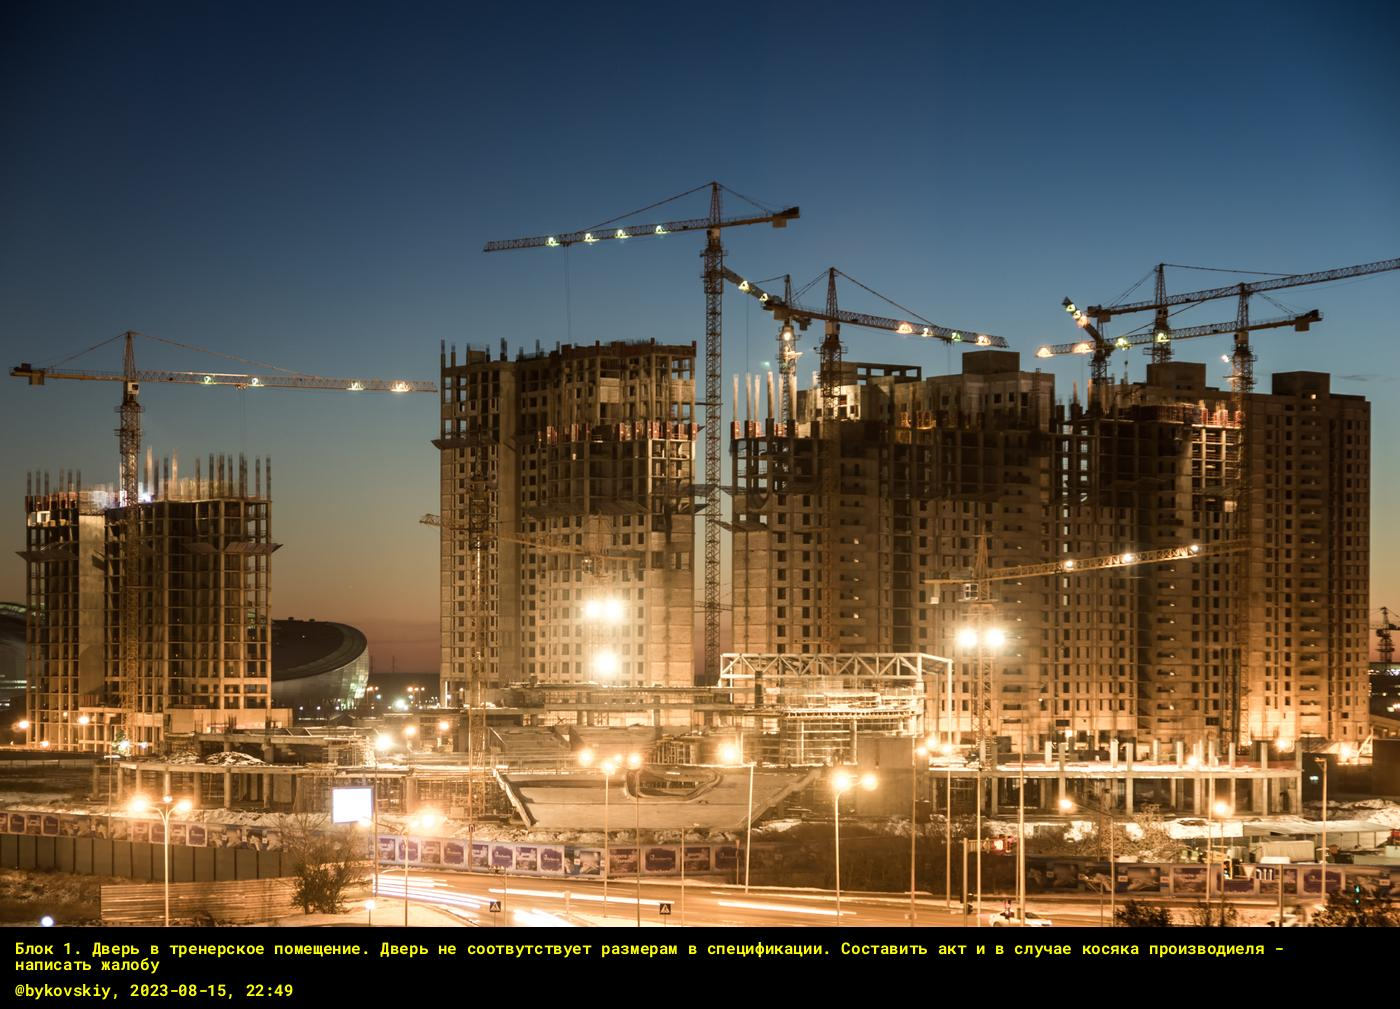
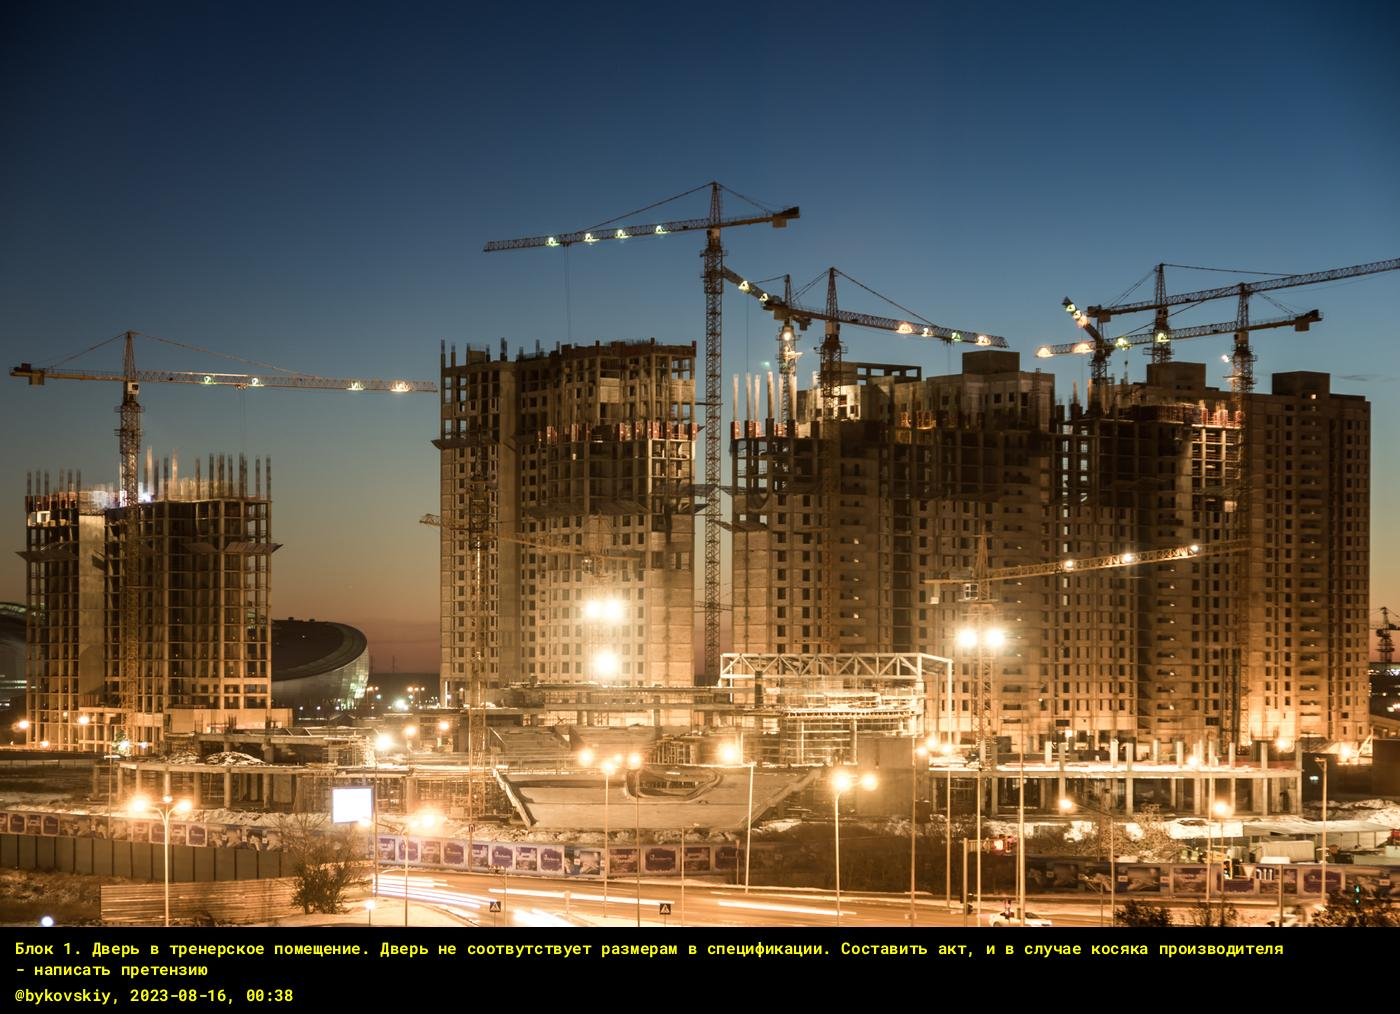
update

diff --git a/main.py b/main.py
@@ -1,24 +1,47 @@
 import textwrap
+import math
 import sys
 
 from datetime import datetime
 from PIL import Image, ImageDraw, ImageFont
 
+font_chars = 'АаБбВвГгДдЕеЁёЖжЗзИиЙйКкЛлМмНнОоПпСсТтУуФфХхЦцЧчШшЩщЪъЫыЬьЭэЮюЯяabcdefghijklmnopqrstuvwxyzABCDEFGHIJKLMNOPQRSTUVWXYZ'
+
+def get_text_wrapper(font, image, text):
+    avg_chat_width = sum(font.getbbox(char)[2] for char in font_chars) / len(font_chars)
+    max_char_count = int((image.size[0] * .95) / avg_chat_width )
+    text = textwrap.fill(text=text, width=max_char_count)
     
+    return text, max_char_count
+
 def add_message(image, text, font, text_color, text_start_height, fontsize, spacing, padding_left):
     draw_img = ImageDraw.Draw(image)
     y_text = text_start_height
-    lines = textwrap.wrap(text, width=image.width // 10)
     
-    for line in lines:
-        draw_img.text((padding_left, y_text), 
-                  line, font=font, fill=text_color)
-        y_text += fontsize*spacing
+    # text = textwrap.fill(text=text, width=60)
+    # print(text)
+    #
+    #
+    # avg_chat_width = sum(font.getbbox(char)[2] for char in font_chars) / len(font_chars)
+    # max_char_count = int((image.size[0] * .95) / avg_chat_width )
+    # text = textwrap.fill(text=text, width=max_char_count)
+    text, max_char_count = get_text_wrapper(font, image, text)
+    draw_img.text((padding_left, y_text), text, font=font, fill=text_color, align='left')
+    
+    # lines = textwrap.wrap(text, width=image.width // 10)
+    
+    # for line in lines:
+    #     draw_img.text((padding_left, y_text), 
+    #               line, font=font, fill=text_color)
+    #     y_text += fontsize*spacing
         
-    return y_text
+    #return y_text
+    print(fontsize*spacing*math.ceil((len(text) / max_char_count)))
+    return y_text + fontsize*spacing * math.ceil((len(text) / max_char_count))
+    
 
 def make_wrapper(fontsize, text, image, spacing, padding_bottom):
-    sender_mark_space = 40 + padding_bottom
+    sender_mark_space = 45 + padding_bottom
     
     lines = textwrap.wrap(text, width=image.width // 10)
     
@@ -32,22 +55,39 @@ def make_wrapper(fontsize, text, image, spacing, padding_bottom):
     
     return wrapper, extra_bound_size
 
-def sender_mark(image_wrapper, message_sender, text_start, font, text_color, fontsize, spacing, padding_left):
+def sender_mark(image_wrapper, message_sender, text_start, font, text_color, padding_left):
     current_time = datetime.now()
+    text_top_padding = 5
     
     date = current_time.strftime('%Y-%m-%d')
     timer = current_time.strftime('%H:%M')
     
     text =  f'@{message_sender}, {date}, {timer}'
-    lines = textwrap.wrap(text, width=image_wrapper.width//10)
+    #lines = textwrap.wrap(text, width=image_wrapper.width//10)
     
     draw_img = ImageDraw.Draw(image_wrapper)
     
-    y_text = text_start
-    for line in lines:
-        draw_img.text((padding_left, y_text), 
-                  line, font=font, fill=text_color)
-        y_text += fontsize*spacing
+    y_text = text_start + text_top_padding
+    # for line in lines:
+    #     draw_img.text((padding_left, y_text), 
+    #               line, font=font, fill=text_color)
+    #     y_text += fontsize*spacing
+    text, _ = get_text_wrapper(font, image_wrapper, text)
+    draw_img.text((padding_left, y_text), text, font=font, fill=text_color, align='left')
+
+# def get_dynamic_fontsize(image, text, font_name):
+#     font_size = 1
+#     font = ImageFont.truetype(f"./fonts/{font_name}.ttf", font_size)
+#     print("size:", image.width)
+#     print(font.getbbox(text))
+#     while font.getbbox(text)[2] < image.width:
+#         print(font.getbbox(text)[2])
+#         font_size += 1
+#         font = ImageFont.truetype(f"./fonts/{font_name}.ttf", font_size)
+#     font_size -= 1
+#     print(font_size)
+
+#     return font, font_size
 
 def main():
     image_name = sys.argv[1]
@@ -74,7 +114,7 @@ def main():
     text_start_height = image_wrapper.height - int(bound_size) + padding_top
     
     text_end_line = add_message(image_wrapper, text, font, text_color, text_start_height, fontsize, spacing, padding_left)
-    sender_mark(image_wrapper, message_sender, text_end_line + padding_top, font, text_color, fontsize, spacing, padding_left)
+    sender_mark(image_wrapper, message_sender, text_end_line + padding_top, font, text_color, padding_left)
     
     image_wrapper.save(f'./results/{image_name}')
 
